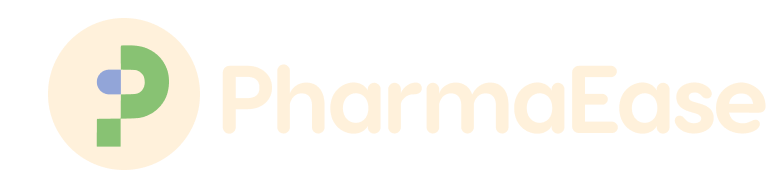
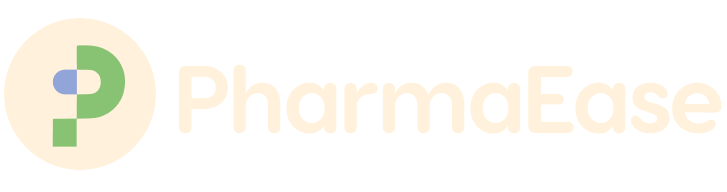
polished the homepage

Changed region(s): [[0.0, 0.0938, 0.9986, 0.9062], [0.7868, 0.3438, 0.8171, 0.4062]]

diff --git a/components/homepage/productview.css b/components/homepage/productview.css
@@ -215,7 +215,7 @@ main .section .section-content {
 }
 
 .product-info .product-name {
-    font-size: 18px;
+    font-size: 30px;
     font-weight: bold;
 }
 
@@ -385,55 +385,4 @@ footer {
     padding: 42px 35px;
     width: 100%;
     height: auto;
-}
-
-footer li {
-    font-size: 16px;
-    margin-bottom: 14px;
-    font-weight: bold; /* Make text bold */
-}
-
-footer a {
-    font-size: 16px;
-    font-weight: bold; /* Make text bold */
-}
-
-footer ul {
-    flex: 1 1 200px;
-    margin: 10px;
-}
-
-.head {
-    font-size: 18px;
-    font-weight: bold; /* Make text bold */
-}
-
-.about-us a:link {
-    font-size: 18px;
-    font-weight: bold; /* Make text bold */
-}
-
-@media (max-width: 768px) {
-    header {
-        flex-direction: column;
-        align-items: flex-start;
-    }
-    .navlist {
-        flex-direction: column;
-        align-items: flex-start;
-    }
-    .details {
-        grid-template-columns: 1fr;
-    }
-    .deals-row, .fashion-row {
-        grid-template-columns: repeat(auto-fill, minmax(120px, 1fr));
-    }
-    footer {
-        flex-direction: column;
-        align-items: flex-start;
-    }
-    footer ul {
-        width: 100%;
-        margin: 10px 0;
-    }
 }

diff --git a/components/homepage/footer.php b/components/homepage/footer.php
@@ -1,47 +1,56 @@
 <footer>
     <ul>
-    <li><a class="head" href="#">MY ACCOUNT</a></li>
-    <li><a href="#">Orders</a></li>
-    <li><a href="#">Returns/Refunds</a></li>
-    <li><a href="#">Track Order</a></li>
-    <li><a href="#">Frequently Asked Questions</a></li>
+        <li>
+            <a href="homepage.php">
+                <img src="/PharmaEase/PharmaEase-Final/assets/PharmaEaseFullLight.png" alt="PharmaEase Logo" class="footer-logo-img">
+            </a>
+        </li>
+        <li><ion-icon name="call-outline"></ion-icon> 09943438196</li>
+        <li><ion-icon name="mail-outline"></ion-icon> pharmaease.info@gmail.com</li>
+        </ul>
+    <ul>
+        <li><a class="head" href="#">MY ACCOUNT</a></li>
+        <li><a href="#">Orders</a></li>
+        <li><a href="#">Returns/Refunds</a></li>
+        <li><a href="#">Track Order</a></li>
+        <li><a href="#">Frequently Asked Questions</a></li>
     </ul>
     <ul>
-    <li><a class="head" href="#">POLICIES</a></li>
-    <li><a href="#">Payment Options</a></li>
-    <li><a href="#">Terms & Conditions</a></li>
-    <li><a href="#">Returns & Exchange Policy</a></li>
-    <li><a href="#">Shipping Policy</a></li>
-    <li><a href="#">Privacy Policy</a></li>
-    <li><a href="#">Safety Checklist</a></li>
-    <li><a href="#">License</a></li>
+        <li><a class="head" href="#">POLICIES</a></li>
+        <li><a href="#">Payment Options</a></li>
+        <li><a href="#">Terms & Conditions</a></li>
+        <li><a href="#">Returns & Exchange Policy</a></li>
+        <li><a href="#">Shipping Policy</a></li>
+        <li><a href="#">Privacy Policy</a></li>
+        <li><a href="#">Safety Checklist</a></li>
+        <li><a href="#">License</a></li>
     </ul>
     <ul>
-    <li><a class="head" href="#">CONTACT US</a></li>
-    <li><a href="#">About Us</a></li>
-    <li><a href="#">Customer Support</a></li>
-    <li><a href="#">Help Center</a></li>
-    <li><a href="#">Local Pharmacies</a></li>
-    <li><a href="#">Partnerships</a></li>
+        <li><a class="head" href="#">CONTACT US</a></li>
+        <li><a href="#">About Us</a></li>
+        <li><a href="#">Customer Support</a></li>
+        <li><a href="#">Help Center</a></li>
+        <li><a href="#">Local Pharmacies</a></li>
+        <li><a href="#">Partnerships</a></li>
     </ul>
     <ul class="social-media">
-    <li><a class="head" href="#">SOCIAL</a></li>
-    <li><a href="#">Facebook</a></li>
-    <li><a href="#">Instagram</a></li>
-    <li><a href="#">Tiktok</a></li>
-    <li><a href="#">Twitter</a></li>
-    <li><a href="#">YouTube</a></li>
+        <li><a class="head" href="#">SOCIAL</a></li>
+        <li><a href="#">Facebook</a></li>
+        <li><a href="#">Instagram</a></li>
+        <li><a href="#">Tiktok</a></li>
+        <li><a href="#">Twitter</a></li>
+        <li><a href="#">YouTube</a></li>
     </ul>
 </footer>
 
 <style>
-
 
 footer ul {
   list-style: none;
   padding: 0;
   margin: 0 20px; 
   flex: 1 1 200px; 
+  font-weight: normal !important;
 }
 
 footer ul li {
@@ -96,4 +105,13 @@ footer ul.social-media li a[href*="Twitter"]::before {
 footer ul.social-media li a[href*="YouTube"]::before {
   background-image: url(''); 
 }
+
+.footer-logo-img {
+    width: 250px; /* Adjust the size as needed */
+    margin-bottom: 10px;
+}
+
 </style>
+
+<script type="module" src="https://unpkg.com/ionicons@5.5.2/dist/ionicons/ionicons.esm.js"></script>
+<script nomodule src="https://unpkg.com/ionicons@5.5.2/dist/ionicons/ionicons.js"></script>

diff --git a/components/homepage/productview.php b/components/homepage/productview.php
@@ -17,7 +17,9 @@ session_start();
 <div class="container">
     <!-- Main Navbar -->
     <header>
-      <img src="/PharmaEase/PharmaEase-Final/assets/PharmaEaseFullLight.png" alt="PharmaEase Logo" class="logo-img">
+      <a href="homepage.php">
+        <img src="/PharmaEase/PharmaEase-Final/assets/PharmaEaseFullLight.png" alt="PharmaEase Logo" class="logo-img">
+      </a>
       <nav>
         <a href="homepage.php">Home</a>
         <a href="#">Cart</a>
@@ -92,6 +94,10 @@ session_start();
           <span>3-ply with earloop disposable face mask, filters droplets, pollen, dust and other air particulates.</span>
         </li>
         <li class="product-attributes">
+        <strong>CATEGORY:</strong>
+        <span>Medicinal Supplies</span>
+        </li>
+        <li class="product-attributes">
         <strong>STORE:</strong>
         <span>Mercury Drug</span>
         </li>
@@ -127,41 +133,6 @@ session_start();
       </ul>
     </div>
     <!-- Footer  -->
-    <footer>
-      <ul>
-        <li><a class="head" href="#">MY ACCOUNT</a></li>
-        <li><a href="#">Orders</a></li>
-        <li><a href="#">Returns/Refunds</a></li>
-        <li><a href="#">Track Order</a></li>
-        <li><a href="#">Frequently Asked Questions</a></li>
-      </ul>
-      <ul>
-        <li><a class="head" href="#">POLICIES</a></li>
-        <li><a href="#">Payment Options</a></li>
-        <li><a href="#">Terms & Conditions</a></li>
-        <li><a href="#">Returns & Exchange Policy</a></li>
-        <li><a href="#">Shipping Policy</a></li>
-        <li><a href="#">Privacy Policy</a></li>
-        <li><a href="#">Safety Checklist</a></li>
-        <li><a href="#">License</a></li>
-      </ul>
-      <ul>
-        <li><a class="head" href="#">CONTACT US</a></li>
-        <li><a href="#">About Us</a></li>
-        <li><a href="#">Customer Support</a></li>
-        <li><a href="#">Help Center</a></li>
-        <li><a href="#">Local Pharmacies</a></li>
-        <li><a href="#">Partnerships</a></li>
-      </ul>
-      <ul class="social-media">
-        <li><a class="head" href="#">SOCIAL</a></li>
-        <li><a href="#">Facebook</a></li>
-        <li><a href="#">Instagram</a></li>
-        <li><a href="#">Tiktok</a></li>
-        <li><a href="#">Twitter</a></li>
-        <li><a href="#">YouTube</a></li>
-      </ul>
-    </footer>
-</div>
+    <?php include "footer.php"; ?>
 </body>
 </html>

diff --git a/components/homepage/homepage.php b/components/homepage/homepage.php
@@ -17,7 +17,9 @@ session_start();
 <div class="container">
     <!-- Main Navbar -->
     <header>
-      <img src="/PharmaEase/PharmaEase-Final/assets/PharmaEaseFullLight.png" alt="PharmaEase Logo" class="logo-img">
+      <a href="homepage.php">
+        <img src="/PharmaEase/PharmaEase-Final/assets/PharmaEaseFullLight.png" alt="PharmaEase Logo" class="logo-img">
+      </a>
       <nav>
         <a href="homepage.php">Home</a>
         <a href="#">Cart</a>
@@ -854,7 +856,6 @@ session_start();
     </div>
     <!-- Footer  -->
      <?php include "footer.php"; ?>
-  </div>
   <script>
 const _ = className => document.querySelector(className);
 const __ = className => document.querySelectorAll(className);

diff --git a/components/homepage/allproducts.php b/components/homepage/allproducts.php
@@ -17,7 +17,9 @@ session_start();
 <div class="container">
     <!-- Main Navbar -->
     <header>
-      <img src="/PharmaEase/PharmaEase-Final/assets/PharmaEaseFullLight.png" alt="PharmaEase Logo" class="logo-img">
+      <a href="homepage.php">
+        <img src="/PharmaEase/PharmaEase-Final/assets/PharmaEaseFullLight.png" alt="PharmaEase Logo" class="logo-img">
+      </a>
       <nav>
         <a href="homepage.php">Home</a>
         <a href="#">Cart</a>

diff --git a/components/homepage/healthsupplements.php b/components/homepage/healthsupplements.php
@@ -17,7 +17,9 @@ session_start();
 <div class="container">
     <!-- Main Navbar -->
     <header>
-      <img src="/PharmaEase/PharmaEase-Final/assets/PharmaEaseFullLight.png" alt="PharmaEase Logo" class="logo-img">
+      <a href="homepage.php">
+        <img src="/PharmaEase/PharmaEase-Final/assets/PharmaEaseFullLight.png" alt="PharmaEase Logo" class="logo-img">
+      </a>
       <nav>
         <a href="homepage.php">Home</a>
         <a href="#">Cart</a>
